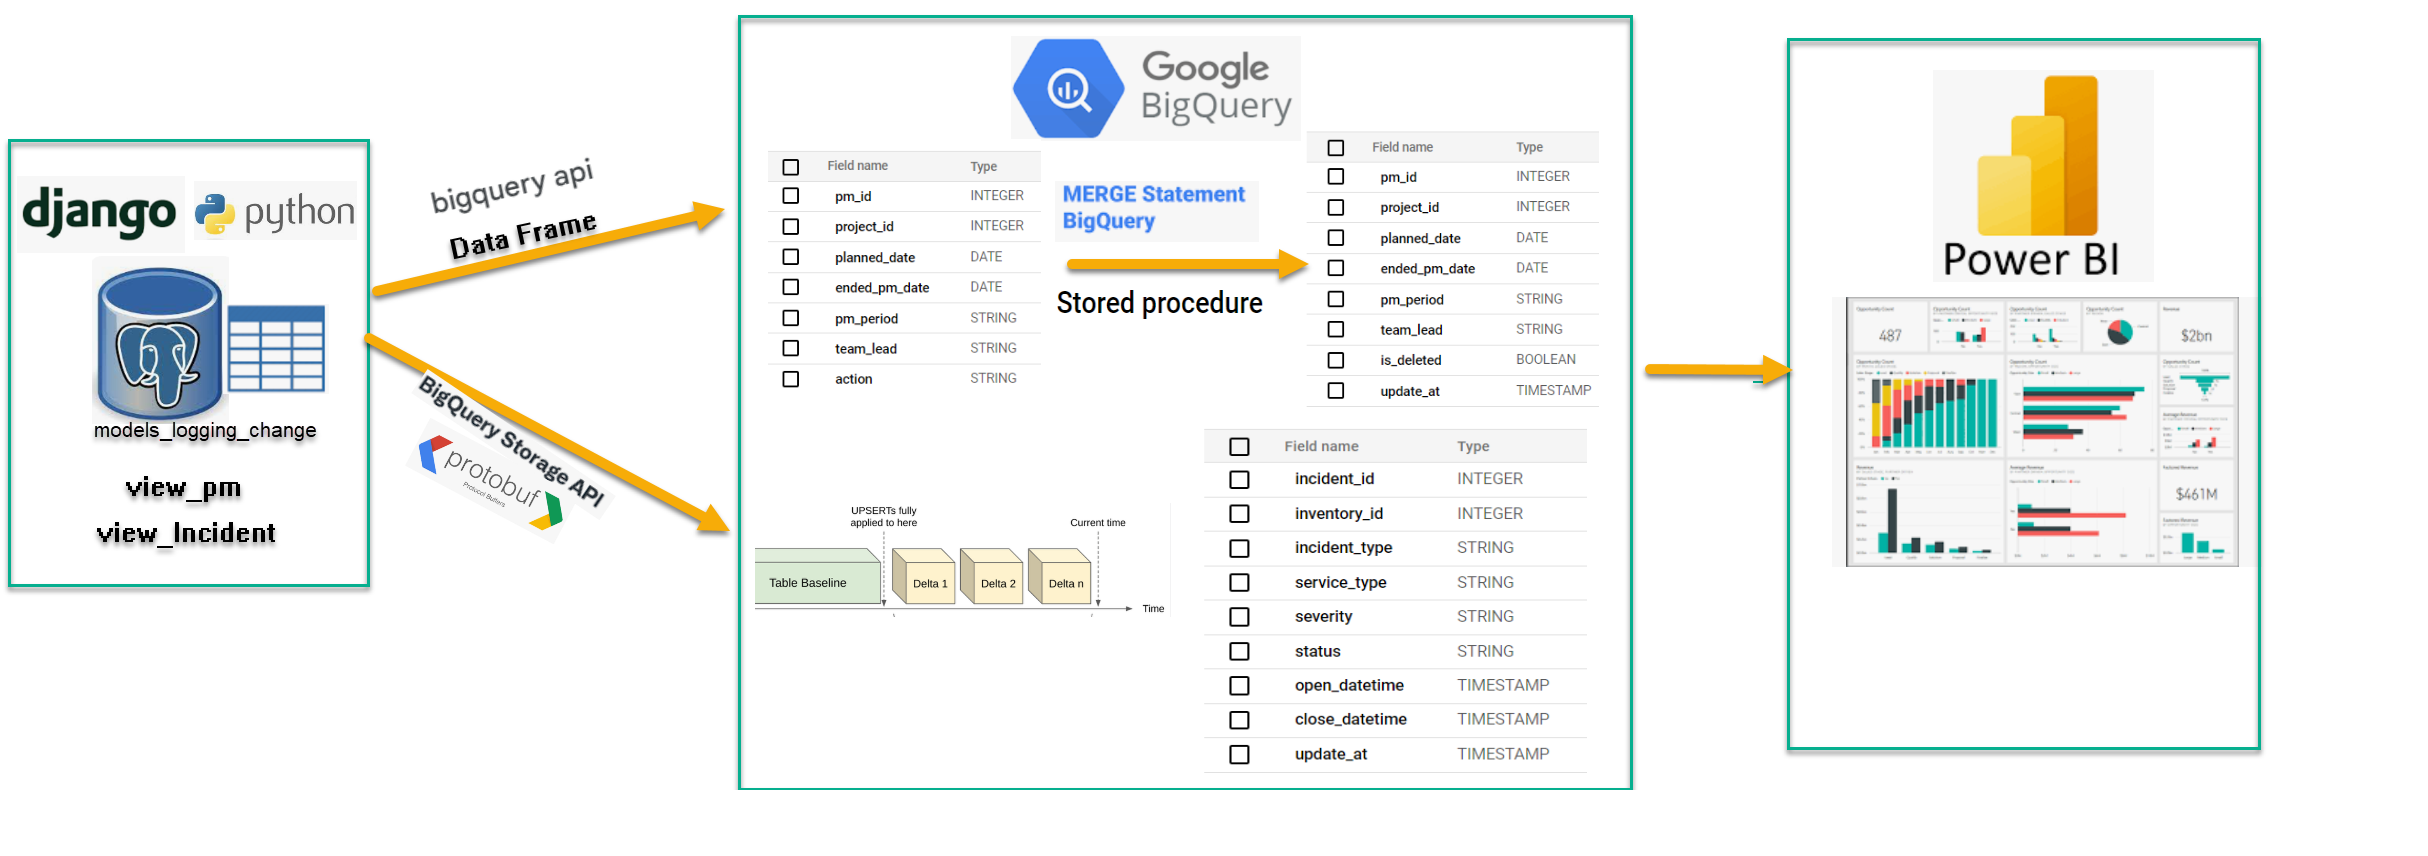
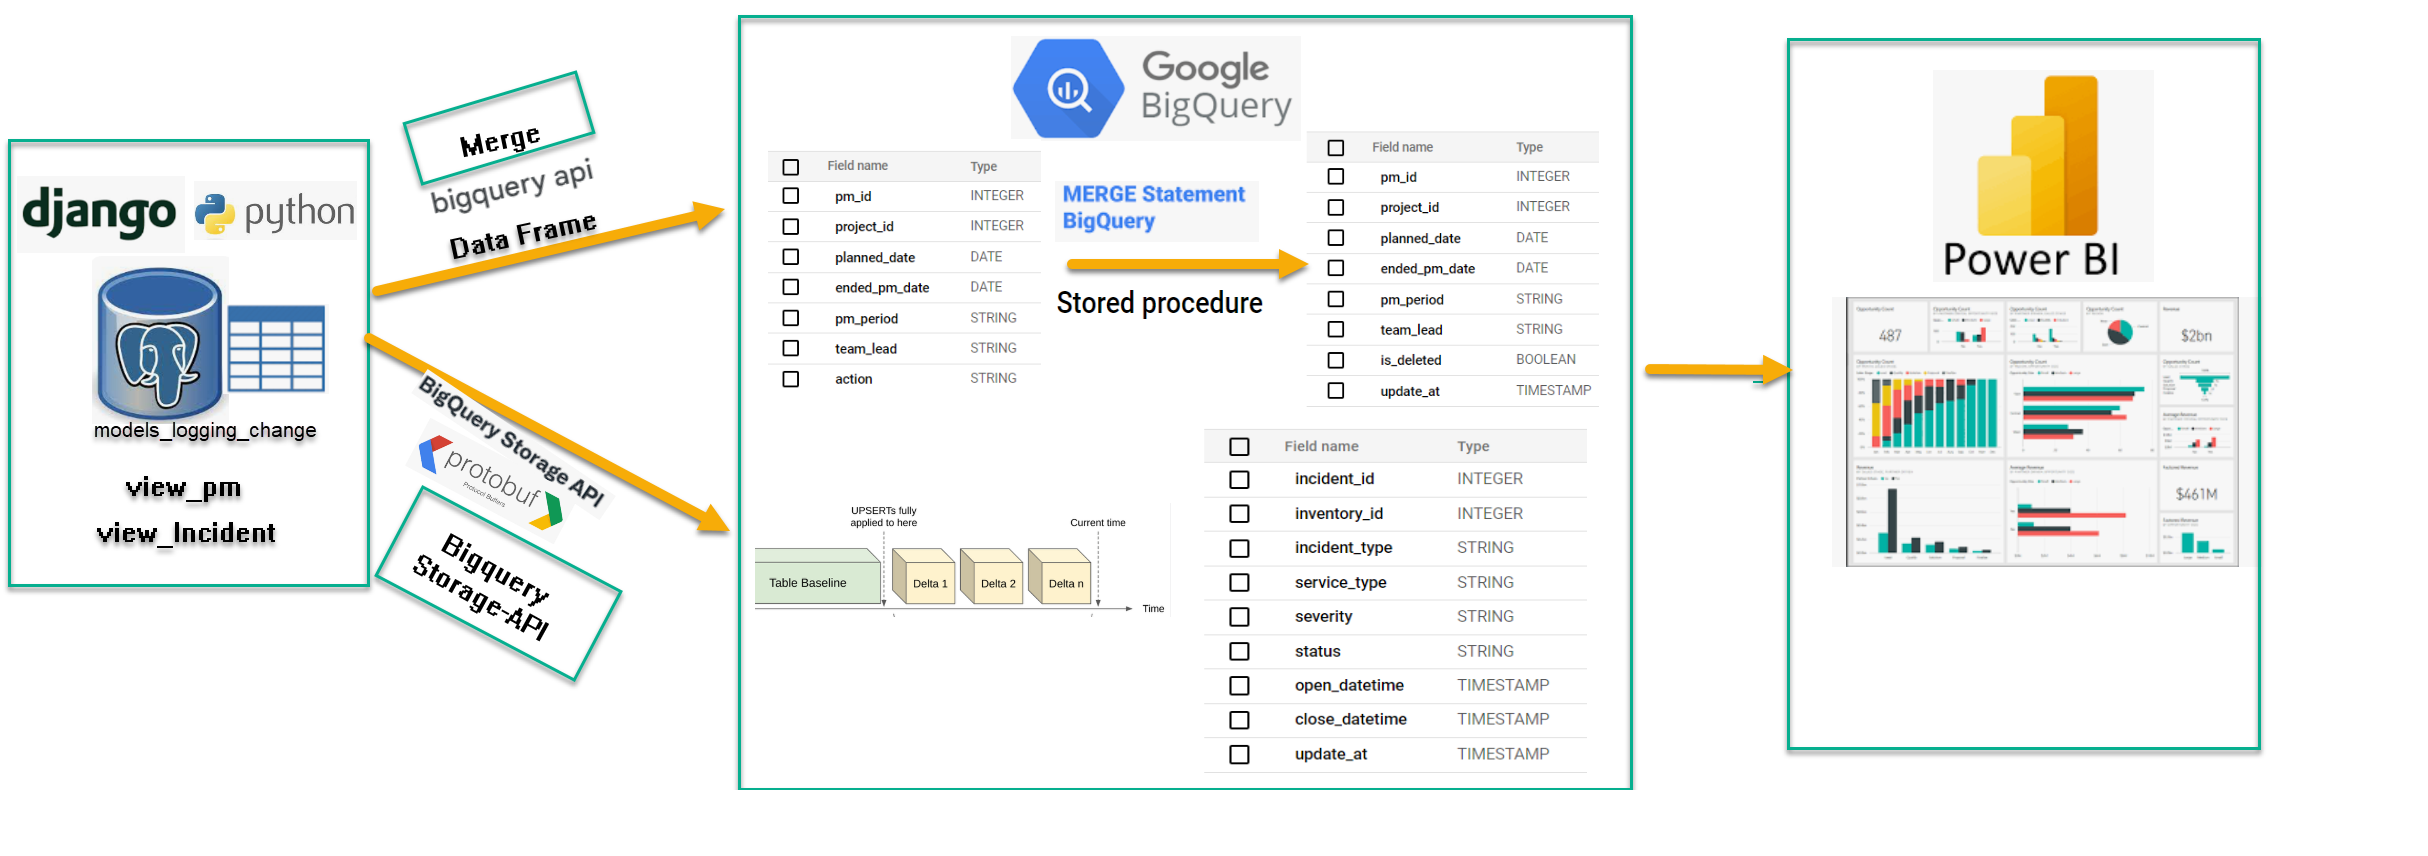
ok

Changed region(s): [[0.1544, 0.5771, 0.278, 0.7897], [0.1544, 0.0911, 0.2471, 0.2126]]

diff --git a/README.md b/README.md
@@ -1,7 +1,7 @@
 # SMartDataHub-DBToBigQuery
 Ingest data from [PostgreSQL](https://www.postgresql.org/) database that stores  data for [SMartApp](https://github.com/technqvi/SMartApp)  to [BigQuery](https://cloud.google.com/bigquery?hl=en) by capturing every transaction in the database periodically to keep data consistency and reliability. Please review how it works as figure and description below.
- <img width="1214" alt="process" src="https://github.com/technqvi/SMartDataHub-DBToBigQuery/assets/38780060/9807ceb9-fb0c-47b8-9015-37e668223dd0">
-### Merging Solution
+<img width="1214" alt="process" src="https://github.com/technqvi/SMartDataHub-DBToBigQuery/assets/38780060/d61faef2-d0c8-4830-a72c-60323dc13d07">
+### Merge
 ### Bigquery Storage-API
 
 
